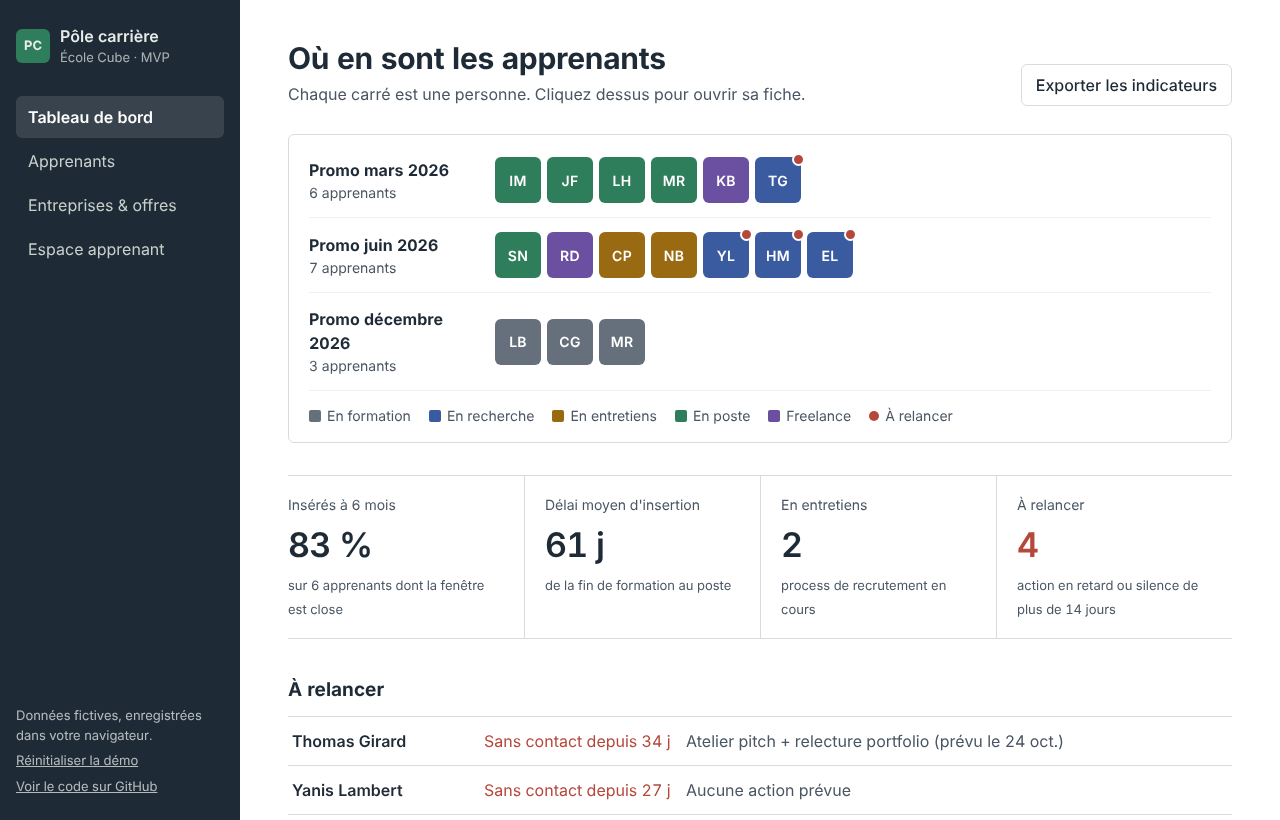
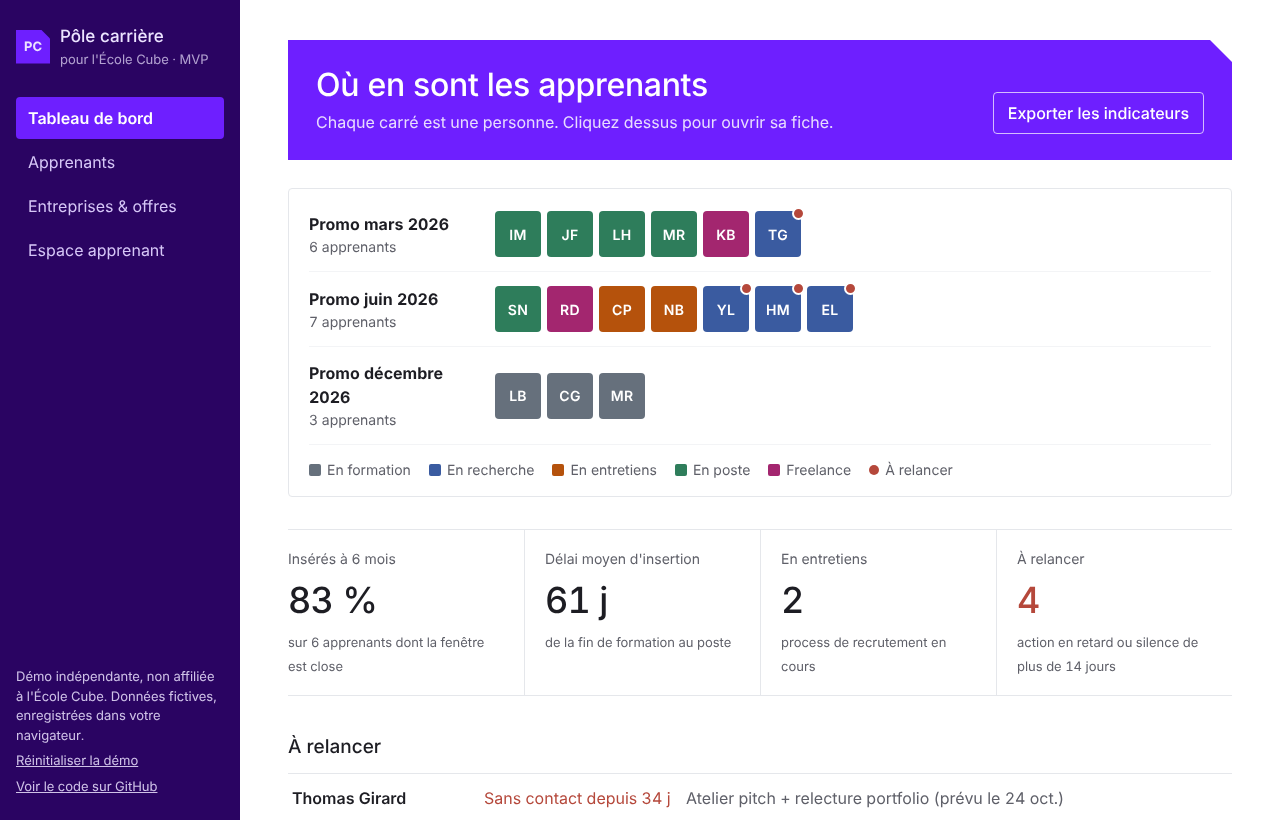
Charte graphique inspirée de l'École Cube
- Violet (#6E1FFF), violet nuit (#2A0462) et touche d'orange pour l'action principale
- Titres en Outfit, texte en Inter
- Bannière du tableau de bord au coin coupé, en écho aux encarts du site de l'école
- Couleurs de statut revues pour rester distinctes et au contraste AA
- Mention « démo indépendante, non affiliée » ; favicon et aperçu de lien mis à jour

Claude-Session: https://claude.ai/code/session_01QerEPMmD7pcfZL9HCcJwUK

diff --git a/src/styles.css b/src/styles.css
@@ -1,22 +1,29 @@
 /* ---------- Jetons ---------- */
 :root {
-  --encre: #1e2a36;
-  --encre-douce: #4a5663;
+  /* Palette inspirée de l'univers École Cube : violet, nuit, touche d'orange */
+  --violet: #6e1fff;
+  --violet-nuit: #2a0462;
+  --violet-pale: #f3ecff;
+  --orange: #fe771b;
+  --encre: #1d1d23;
+  --encre-douce: #5f6069;
   --papier: #ffffff;
-  --brume: #eef1ee;
-  --trait: #d8ddd8;
+  --brume: #f3f4f6;
+  --trait: #e5e7eb;
 
   /* Une couleur par statut : la même partout dans l'app */
   --s-formation: #66707c;
   --s-recherche: #3a5ba0;
-  --s-entretiens: #9a6a12;
+  --s-entretiens: #b5520c;
   --s-poste: #2e7d5b;
-  --s-freelance: #6b4fa0;
+  --s-freelance: #a3266f;
   --alerte: #b5483b;
   /* Toutes ces couleurs passent 4,5:1 avec du texte blanc (WCAG AA) */
 
-  --rayon: 6px;
-  font-family: "Instrument Sans", system-ui, sans-serif;
+  --rayon: 4px;
+  /* Coin coupé, signature visuelle reprise des encarts du site École Cube */
+  --coupe: 22px;
+  font-family: "Inter", system-ui, sans-serif;
   color: var(--encre);
   background: var(--papier);
   font-size: 16px;
@@ -41,14 +48,19 @@ textarea {
   color: inherit;
 }
 :focus-visible {
-  outline: 2px solid var(--s-recherche);
+  outline: 2px solid var(--violet);
   outline-offset: 2px;
 }
 h1,
 h2,
 h3 {
+  font-family: "Outfit", "Inter", system-ui, sans-serif;
+  font-weight: 500;
   line-height: 1.2;
   margin: 0;
+}
+a {
+  color: var(--violet);
 }
 
 /* ---------- Mise en page ---------- */
@@ -58,8 +70,8 @@ h3 {
   min-height: 100vh;
 }
 .barre {
-  background: var(--encre);
-  color: #e8ece9;
+  background: var(--violet-nuit);
+  color: #ece4ff;
   padding: 24px 16px;
   display: flex;
   flex-direction: column;
@@ -83,12 +95,17 @@ h3 {
 .marque-logo {
   width: 34px;
   height: 34px;
-  border-radius: var(--rayon);
-  background: var(--s-poste);
+  background: var(--violet);
+  clip-path: polygon(0 0, calc(100% - 9px) 0, 100% 9px, 100% 100%, 0 100%);
   display: grid;
   place-items: center;
   font-size: 13px;
   font-weight: 700;
+}
+.marque > span:last-child {
+  font-family: "Outfit", "Inter", sans-serif;
+  font-weight: 500;
+  font-size: 17px;
 }
 nav {
   display: flex;
@@ -101,7 +118,7 @@ nav {
   text-align: left;
   padding: 9px 12px;
   border-radius: var(--rayon);
-  color: #c8d0cb;
+  color: #d6c7f7;
   cursor: pointer;
 }
 .nav-lien:hover {
@@ -109,14 +126,14 @@ nav {
   color: #fff;
 }
 .nav-lien.actif {
-  background: rgba(255, 255, 255, 0.12);
+  background: var(--violet);
   color: #fff;
   font-weight: 600;
 }
 .barre-pied {
   margin-top: auto;
   font-size: 13px;
-  opacity: 0.75;
+  opacity: 0.85;
 }
 .barre-pied p {
   margin: 0 0 6px;
@@ -139,8 +156,8 @@ nav {
   margin-bottom: 28px;
 }
 .entete-page h1 {
-  font-size: 30px;
-  font-weight: 700;
+  font-size: 32px;
+  font-weight: 500;
   letter-spacing: -0.01em;
 }
 .sous-titre,
@@ -161,6 +178,28 @@ nav {
 .vide {
   color: var(--encre-douce);
   font-style: italic;
+}
+
+/* Bannière du tableau de bord : encart violet au coin coupé */
+.entete-banniere {
+  background: var(--violet);
+  color: #fff;
+  padding: 26px 28px;
+  clip-path: polygon(0 0, calc(100% - var(--coupe)) 0, 100% var(--coupe), 100% 100%, 0 100%);
+}
+.entete-banniere h1 {
+  color: #fff;
+}
+.entete-banniere .sous-titre {
+  color: #e8dcff;
+}
+.entete-banniere .bouton-discret {
+  background: transparent;
+  color: #fff;
+  border-color: rgba(255, 255, 255, 0.7);
+}
+.entete-banniere .bouton-discret:hover {
+  background: rgba(255, 255, 255, 0.12);
 }
 
 /* ---------- Statuts : couleurs partagées ---------- */
@@ -294,8 +333,9 @@ nav {
 }
 .chiffres dd {
   margin: 4px 0 2px;
-  font-size: 34px;
-  font-weight: 600;
+  font-family: "Outfit", "Inter", sans-serif;
+  font-size: 36px;
+  font-weight: 500;
   letter-spacing: -0.02em;
 }
 .chiffres small {
@@ -379,9 +419,9 @@ textarea {
   cursor: pointer;
 }
 .bouton {
-  background: var(--encre);
+  background: var(--violet);
   color: #fff;
-  border: 1px solid var(--encre);
+  border: 1px solid var(--violet);
   border-radius: var(--rayon);
   padding: 8px 14px;
   font-weight: 500;
@@ -394,8 +434,15 @@ textarea {
 }
 .bouton-discret {
   background: var(--papier);
+  color: var(--violet);
+  border-color: var(--violet);
+}
+/* Action principale de l'écran : orange, avec un texte sombre pour rester lisible (contraste 6:1) */
+.bouton-cta {
+  background: var(--orange);
+  border-color: var(--orange);
   color: var(--encre);
-  border-color: var(--trait);
+  font-weight: 600;
 }
 .texte-alerte {
   color: var(--alerte);
@@ -730,7 +777,7 @@ textarea {
 .jauge-rempli {
   display: block;
   height: 100%;
-  background: var(--s-recherche);
+  background: var(--violet);
 }
 .jauge-pret {
   background: var(--s-poste);
@@ -824,7 +871,7 @@ textarea {
 .etapes-kpi-barre span {
   display: block;
   height: 100%;
-  background: var(--encre);
+  background: var(--violet);
 }
 .etapes-kpi-valeur {
   text-align: right;
@@ -864,8 +911,9 @@ textarea {
   margin: 0;
 }
 .tuile-chiffre {
-  font-size: 30px;
-  font-weight: 600;
+  font-family: "Outfit", "Inter", sans-serif;
+  font-size: 32px;
+  font-weight: 500;
   line-height: 1.1;
 }
 .tuile-texte {

diff --git a/src/App.tsx b/src/App.tsx
@@ -32,7 +32,7 @@ export default function App() {
           </span>
           <span>
             Pôle carrière
-            <small>École Cube · MVP</small>
+            <small>pour l'École Cube · MVP</small>
           </span>
         </div>
         <nav aria-label="Navigation principale">
@@ -48,7 +48,7 @@ export default function App() {
           ))}
         </nav>
         <div className="barre-pied">
-          <p>Données fictives, enregistrées dans votre navigateur.</p>
+          <p>Démo indépendante, non affiliée à l'École Cube. Données fictives, enregistrées dans votre navigateur.</p>
           <button className="bouton-texte" onClick={() => confirm("Revenir aux données de démo ?") && reinitialiser()}>
             Réinitialiser la démo
           </button>

diff --git a/index.html b/index.html
@@ -17,7 +17,7 @@
     <link rel="icon" href="/favicon.svg" type="image/svg+xml" />
     <link rel="preconnect" href="https://fonts.googleapis.com" />
     <link rel="preconnect" href="https://fonts.gstatic.com" crossorigin />
-    <link href="https://fonts.googleapis.com/css2?family=Instrument+Sans:wght@400;500;600;700&display=swap" rel="stylesheet" />
+    <link href="https://fonts.googleapis.com/css2?family=Inter:wght@400;500;600;700&family=Outfit:wght@400;500;600&display=swap" rel="stylesheet" />
   </head>
   <body>
     <div id="root"></div>

diff --git a/src/components/TableauDeBord.tsx b/src/components/TableauDeBord.tsx
@@ -28,7 +28,7 @@ export function TableauDeBord({ apprenants, ouvrir }: Props) {
 
   return (
     <section aria-labelledby="titre-tdb">
-      <header className="entete-page entete-avec-actions">
+      <header className="entete-page entete-avec-actions entete-banniere">
         <div>
           <h1 id="titre-tdb">Où en sont les apprenants</h1>
           <p className="sous-titre">Chaque carré est une personne. Cliquez dessus pour ouvrir sa fiche.</p>

diff --git a/src/components/Apprenants.tsx b/src/components/Apprenants.tsx
@@ -52,7 +52,7 @@ export function Apprenants({ apprenants, ouvrir, ajouter }: Props) {
           >
             Exporter en CSV
           </button>
-          <button className="bouton" onClick={() => setFormulaireOuvert(true)}>
+          <button className="bouton bouton-cta" onClick={() => setFormulaireOuvert(true)}>
             Ajouter un apprenant
           </button>
         </div>
